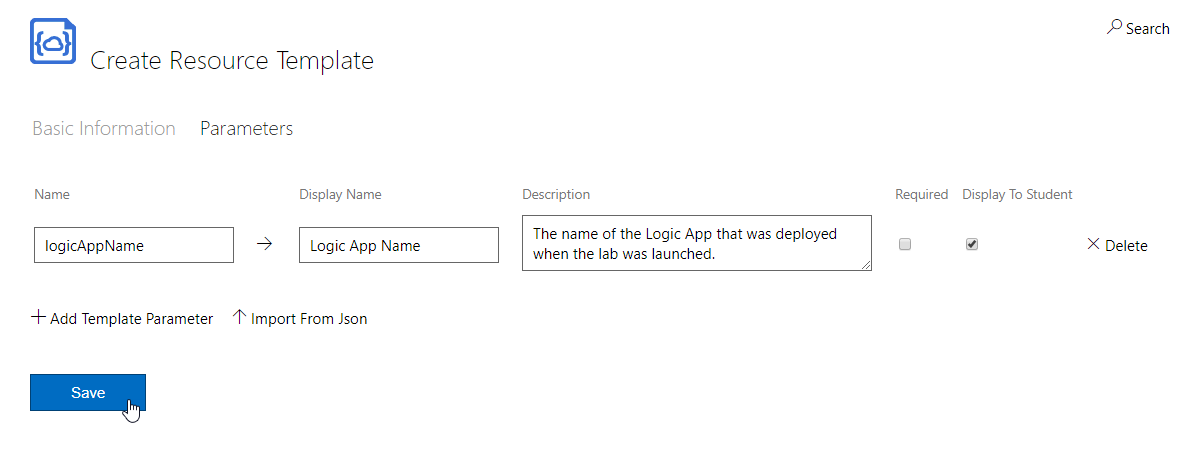
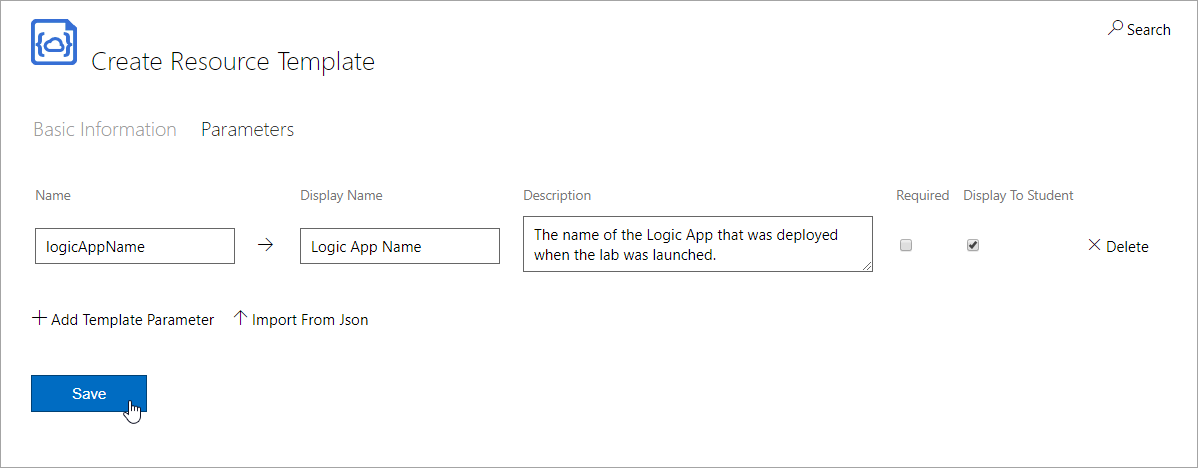
added borders to screenshots

diff --git a/cloud-slice/cloud-slice.md b/cloud-slice/cloud-slice.md
@@ -97,7 +97,7 @@ To add a Cloud Subscription Pool to OneLearn Lab on Demand (LOD), perform the fo
    | Block Lab Launches...                   | This checkbox determines if lab launches should be blocked if no subscriptions are available. |
    | Custom subscription unavailable message | This message will be presented to users if they try to launch a lab and a subscription is unavailable. If this field is blank, the default message will be used. |
 
-   ![Assign default values to the Cloud Subscription Pool](images/create-cloude-subscription-pool.png)
+   ![Assign default values to the Cloud Subscription Pool](images/create-cloud-subscription-pool.png)
 
 5. Click **Save** to create the Cloud Subscription Pool.
 
